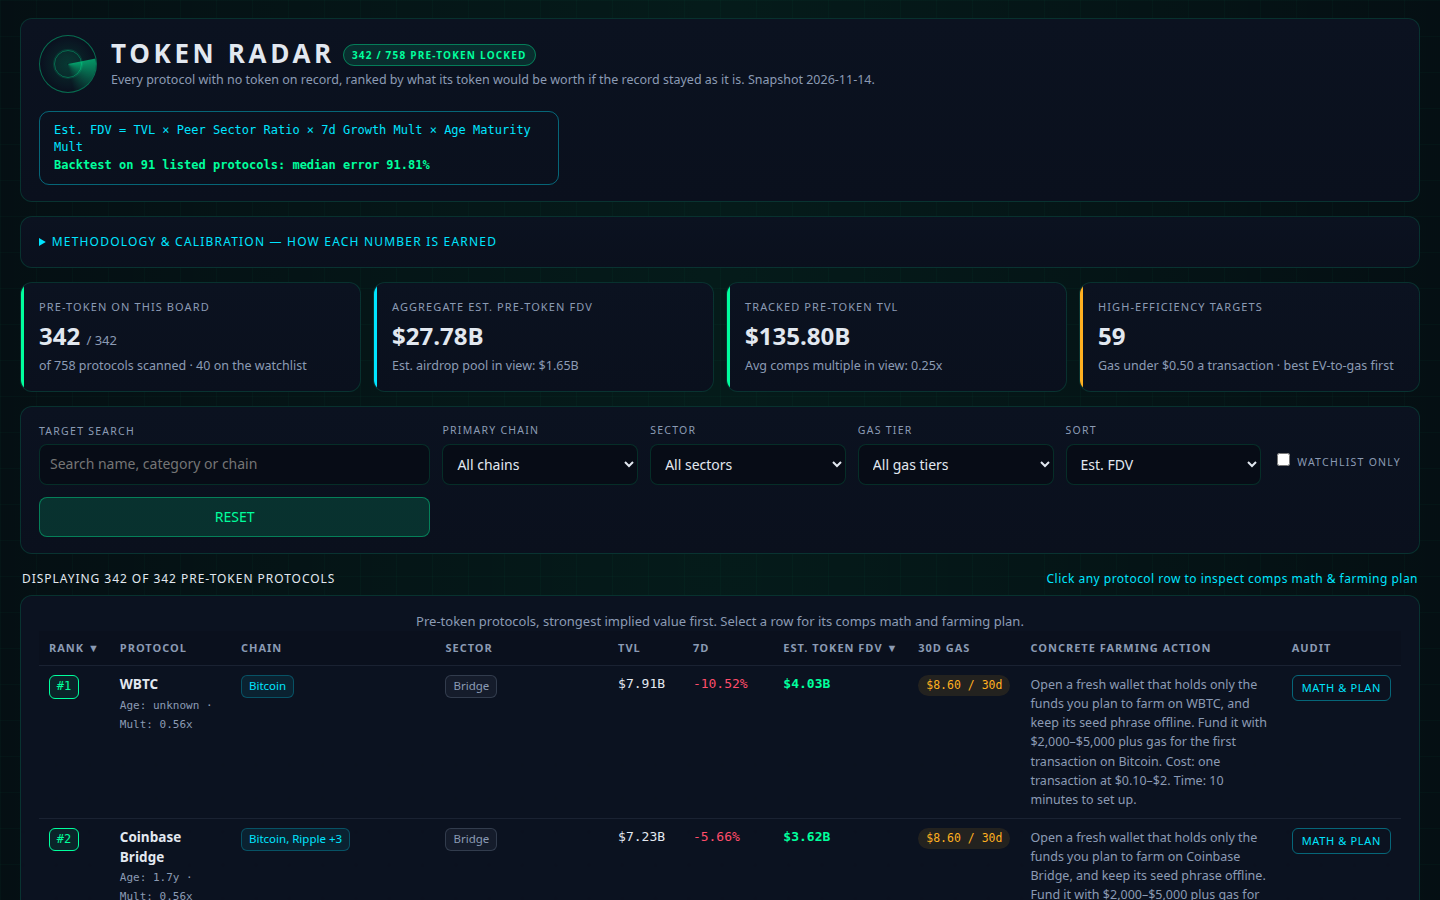
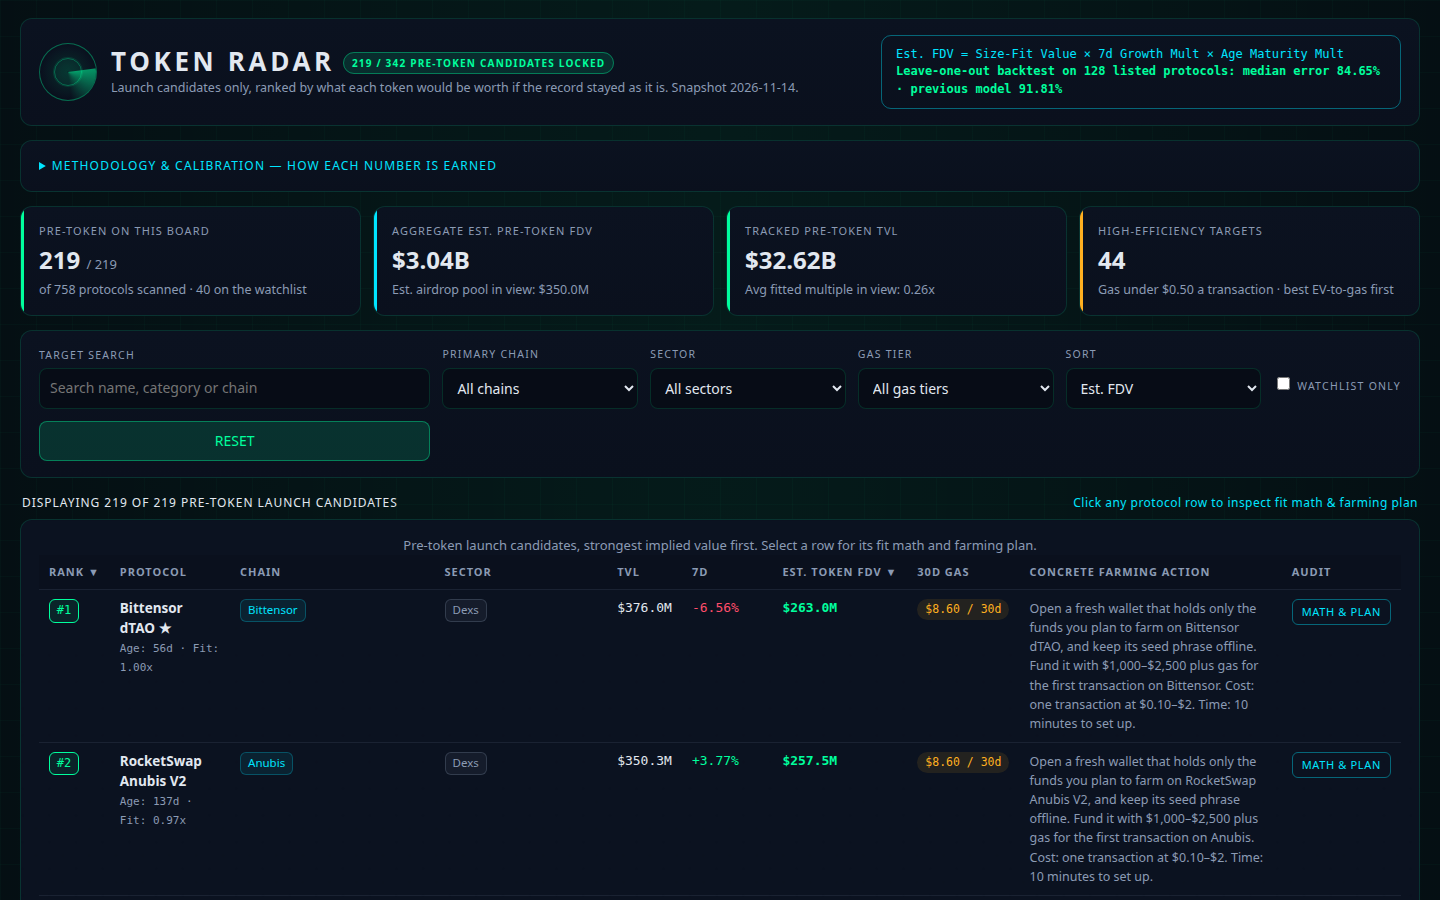
Radar v2 dashboard: universe rule, size-fit math and calibration in the page
Methodology panel now states the launch-candidate universe rule, the
fitted line (log mcap = a + b log TVL, Huber-robust), the n/(n+6)
category blend, and the leave-one-out backtest next to the previous
model's 91.81%. Detail view shows the fitted multiple, whether the
category or global fit dominated, comp count and fit weight. Screenshots
regenerated from the 219-row board (Playwright, 1440x900).

diff --git a/dashboard/app.js b/dashboard/app.js
@@ -123,24 +123,27 @@
       el('div', { class: 'brand' },
         el('div', { class: 'scope' }, el('span', { class: 'blip' })),
         el('div', null,
-          el('h1', null, 'TOKEN RADAR', el('span', { class: 'live', text: DATA.board_size + ' / ' + DATA.total_protocols + ' PRE-TOKEN LOCKED' })),
-          el('p', { class: 'sub', text: 'Every protocol with no token on record, ranked by what its token would be worth if the record stayed as it is. Snapshot ' + DATA.as_of + '.' })
+          el('h1', null, 'TOKEN RADAR', el('span', { class: 'live', text: DATA.board_size + ' / ' + DATA.pre_token_size + ' PRE-TOKEN CANDIDATES LOCKED' })),
+          el('p', { class: 'sub', text: 'Launch candidates only, ranked by what each token would be worth if the record stayed as it is. Snapshot ' + DATA.as_of + '.' })
         )
       ),
       el('div', { class: 'formula-pill' },
-        'Est. FDV = TVL \u00D7 Peer Sector Ratio \u00D7 7d Growth Mult \u00D7 Age Maturity Mult',
+        'Est. FDV = Size-Fit Value \u00D7 7d Growth Mult \u00D7 Age Maturity Mult',
         el('br'),
-        el('b', { text: 'Backtest on ' + DATA.backtest.tested + ' listed protocols: median error ' + DATA.backtest.mdape_pct.toFixed(2) + '%' })
+        el('b', { text: 'Leave-one-out backtest on ' + DATA.backtest.tested + ' listed protocols: median error ' + DATA.backtest.mdape_pct.toFixed(2) + '% \u00B7 previous model ' + DATA.backtest.previous_mdape_pct.toFixed(2) + '%' })
       )
     );
   }
 
   function methodPanel() {
     var c = DATA.comps;
+    var u = DATA.universe;
+    var f = DATA.fit;
     var cells = [
-      ['Comps pool', c.pool_size + ' live-token protocols with a recorded market cap, across ' + c.categories_with_comps + ' categories. Global median multiple ' + c.global_median.toFixed(4) + 'x.'],
-      ['Trimmed median', 'A category with 8 or more comps drops the top and bottom 10% of ratios before the median, so one outsized listing cannot drag the sector.'],
-      ['Backtest', 'The same multiples predict ' + DATA.backtest.tested + ' listed protocols\u2019 market caps from TVL, each protocol excluded from its own peers. Median error ' + DATA.backtest.mdape_pct.toFixed(2) + '%.'],
+      ['Universe', 'Launch candidates only: ' + DATA.board_size + ' of ' + DATA.pre_token_size + ' pre-token protocols. ' + u.excluded_categories.join(', ') + ' are out: venues and asset movers whose tokens already exist, or claims on existing assets. Of the rest, a protocol qualifies when its category holds at least ' + u.min_category_comps + ' live comps, when it sits on the watchlist, or when its TVL is at least ' + fmtUsd(u.min_tvl_usd) + '. All ' + DATA.watchlist_size + ' watchlist protocols are on the board.'],
+      ['Size fit', 'log(market cap) = ' + f.global_intercept.toFixed(4) + ' + ' + f.global_slope.toFixed(4) + ' \u00D7 log(TVL), fitted on ' + c.pool_size + ' live-token protocols across ' + c.categories_with_comps + ' categories with robust Huber weights, so one outsized listing cannot bend the line. A slope under 1 means value grows slower than TVL.'],
+      ['Category blend', 'A category with at least ' + DATA.config.category_line_min_comps + ' comps gets its own fitted line, blended with the global line at weight n/(n+' + DATA.config.blend_shrink_k + ') on the category. Below that, the global line stands plus the category\u2019s median residual, shrunk by the same weight. ' + f.line_categories + ' categories carry their own line; ' + f.offset_categories + ' ride the global line with an offset.'],
+      ['Backtest', 'Leave-one-out on all ' + DATA.backtest.tested + ' listed protocols: each market cap is predicted from a fit that excludes it, growth and maturity left out. Median error ' + DATA.backtest.mdape_pct.toFixed(2) + '%, median signed error ' + fmtPct(DATA.backtest.median_signed_pct) + '. The previous model, category median multiples, posted a median error of ' + DATA.backtest.previous_mdape_pct.toFixed(2) + '%.'],
       ['Growth', '1 + clamp(7-day TVL change, \u221250%, +100%) / 100 \u00D7 ' + DATA.config.growth_weight + '. A missing 7-day change counts as no growth (multiplier 1).'],
       ['Maturity', '0.70 + 0.50 \u00D7 min(age in days, 1460) / 1460. A protocol with no listing date uses 0.95: no bonus, no penalty beyond it.'],
       ['Own claims', 'Implied values, airdrop pools and per-wallet figures are this board\u2019s own claims, never prices or promises. Airdrop pool: 15% of implied value for Dexs / Lending / Yield, 5% for CEX / Bridge, 10% otherwise. Per-wallet divides the pool by a rough active-wallet count by TVL tier (15k\u2013250k).']
@@ -157,12 +160,12 @@
     var totalFdv = list.reduce(function (a, r) { return a + r.implied_value_usd; }, 0);
     var totalPool = list.reduce(function (a, r) { return a + r.airdrop.pool_usd; }, 0);
     var totalTvl = list.reduce(function (a, r) { return a + r.tvl_usd; }, 0);
-    var avgMult = list.length ? list.reduce(function (a, r) { return a + r.model.category_multiple; }, 0) / list.length : 0;
+    var avgMult = list.length ? list.reduce(function (a, r) { return a + r.model.fitted_multiple; }, 0) / list.length : 0;
     var cheap = list.filter(function (r) { return r.gas.cost_per_tx_usd < 0.5; }).length;
     return el('section', { class: 'kpis' },
       el('div', { class: 'panel kpi' }, el('div', { class: 'lab', text: 'Pre-token on this board' }), el('div', { class: 'val', html: esc(String(list.length)) + ' <small>/ ' + DATA.board_size + '</small>' }), el('div', { class: 'sub', text: 'of ' + DATA.total_protocols + ' protocols scanned \u00B7 ' + DATA.watchlist_size + ' on the watchlist' })),
       el('div', { class: 'panel kpi cyn' }, el('div', { class: 'lab', text: 'Aggregate est. pre-token FDV' }), el('div', { class: 'val', text: fmtUsd(totalFdv) }), el('div', { class: 'sub', text: 'Est. airdrop pool in view: ' + fmtUsd(totalPool) })),
-      el('div', { class: 'panel kpi' }, el('div', { class: 'lab', text: 'Tracked pre-token TVL' }), el('div', { class: 'val', text: fmtUsd(totalTvl) }), el('div', { class: 'sub', text: 'Avg comps multiple in view: ' + avgMult.toFixed(2) + 'x' })),
+      el('div', { class: 'panel kpi' }, el('div', { class: 'lab', text: 'Tracked pre-token TVL' }), el('div', { class: 'val', text: fmtUsd(totalTvl) }), el('div', { class: 'sub', text: 'Avg fitted multiple in view: ' + avgMult.toFixed(2) + 'x' })),
       el('div', { class: 'panel kpi amb' }, el('div', { class: 'lab', text: 'High-efficiency targets' }), el('div', { class: 'val', text: String(cheap) }), el('div', { class: 'sub', text: 'Gas under $0.50 a transaction \u00B7 best EV-to-gas first' }))
     );
   }
@@ -252,7 +255,7 @@
         el('td', null, el('span', { class: 'rank-badge' + (r.rank <= 25 ? ' top' : ''), text: '#' + r.rank })),
         el('td', null, el('div', { class: 'name' },
           el('b', { text: r.name + (r.watchlist ? ' \u2605' : '') }),
-          el('span', { class: 'sub', text: 'Age: ' + fmtAge(r.age_days) + ' \u00B7 Mult: ' + r.model.category_multiple.toFixed(2) + 'x' })
+          el('span', { class: 'sub', text: 'Age: ' + fmtAge(r.age_days) + ' \u00B7 Fit: ' + r.model.fitted_multiple.toFixed(2) + 'x' })
         )),
         el('td', null, el('span', { class: 'tag chain', text: chainsShown || 'n/a' })),
         el('td', null, el('span', { class: 'tag sector', text: r.category || 'Other' })),
@@ -268,7 +271,7 @@
     return el('div', { class: 'panel' },
       el('div', { class: 'table-wrap' },
         el('table', { class: 'board-table' },
-          el('caption', { class: 'muted', text: 'Pre-token protocols, strongest implied value first. Select a row for its comps math and farming plan.' }),
+          el('caption', { class: 'muted', text: 'Pre-token launch candidates, strongest implied value first. Select a row for its fit math and farming plan.' }),
           el('thead', null, el('tr', null,
             sortHeader('implied', 'Rank'),
             sortHeader('name', 'Protocol'),
@@ -300,7 +303,7 @@
     });
     return el('section', { class: 'panel live-table' },
       el('h3', { class: 'mono', text: 'COMPS EVIDENCE \u2014 TOP 24 LIVE-TOKEN PROTOCOLS BY MARKET CAP' }),
-      el('p', { class: 'sub', text: 'These protocols already trade. Their market caps over TVL are the ratios the board\u2019s sector multiples are medians of \u2014 the market\u2019s own values, set apart from the pre-token ranking.' }),
+      el('p', { class: 'sub', text: 'These protocols already trade. The size fit is fitted on their market caps and TVLs \u2014 the market\u2019s own values, set apart from the pre-token ranking.' }),
       el('div', { class: 'table-wrap' },
         el('table', null,
           el('thead', null, el('tr', null,
@@ -332,7 +335,7 @@
     var formula = el('div', { class: 'formula-bar' },
       el('div', { class: 'step' }, el('span', { class: 'lab', text: 'Current TVL' }), el('b', { text: fmtUsd(row.tvl_usd) })),
       el('span', { class: 'op', text: '\u00D7' }),
-      el('div', { class: 'step' }, el('span', { class: 'lab', text: 'Sector FDV / TVL' }), el('b', { text: m.category_multiple.toFixed(4) + 'x' }), el('span', { class: 'lab', text: m.comps_fallback ? 'global median (fewer than 3 sector comps)' : m.comp_count + ' sector comps' })),
+      el('div', { class: 'step' }, el('span', { class: 'lab', text: 'Size-fit FDV / TVL' }), el('b', { text: m.fitted_multiple.toFixed(4) + 'x' }), el('span', { class: 'lab', text: m.fit_source === 'category' ? 'category line \u00B7 ' + m.comp_count + ' comps \u00B7 weight ' + m.fit_weight.toFixed(2) : 'global line \u00B7 ' + m.comp_count + ' category comps' })),
       el('span', { class: 'op', text: '\u00D7' }),
       el('div', { class: 'step' }, el('span', { class: 'lab', text: '7d Growth Mult' }), el('b', { text: m.growth_multiplier.toFixed(4) + 'x' })),
       el('span', { class: 'op', text: '\u00D7' }),
@@ -343,7 +346,7 @@
     var peers = el('div', { class: 'peers' }, m.peers.map(function (p) {
       return el('span', { class: 'peer' }, document.createTextNode(p.name + ' '), el('b', { text: p.ratio.toFixed(4) + 'x' }));
     }));
-    if (m.floor_estimate) peers.appendChild(el('span', { class: 'peer', text: 'Floor estimate: no positive TVL on record, priced at the sector median implied value' }));
+    if (m.floor_estimate) peers.appendChild(el('span', { class: 'peer', text: 'Floor estimate: no positive TVL on record, priced from the global fit at the category median TVL' }));
     var steps = el('ol', { class: 'steps' }, row.farm_steps.map(function (s, i) {
       return el('li', null, el('span', { class: 'step-no', text: 'STEP 0' + (i + 1) + ':' }), document.createTextNode(s));
     }));
@@ -357,12 +360,12 @@
         el('button', { class: 'close', type: 'button', 'aria-label': 'Close details', text: 'Close', onclick: function () { dialog.close(); } })
       ),
       el('section', { class: 'sec' },
-        el('h3', null, el('span', { text: '01 // ' }), document.createTextNode('Comps valuation breakdown')),
+        el('h3', null, el('span', { text: '01 // ' }), document.createTextNode('Size-fit valuation breakdown')),
         el('span', { class: 'eff-badge', text: 'Est. airdrop pool (' + Math.round(row.airdrop.share_pct * 100) + '%): ' + fmtUsd(row.airdrop.pool_usd) }),
         formula,
-        el('p', { class: 'sub', text: 'Listed peer comps used for the benchmark:' }),
+        el('p', { class: 'sub', text: 'Listed peer comps in this category, the fit\u2019s own evidence:' }),
         peers,
-        el('p', { class: 'note', text: 'Base ' + fmtNum(m.base_usd) + ' = TVL \u00D7 ' + m.category_multiple.toFixed(4) + 'x. Per-wallet figure: ' + fmtUsd(row.airdrop.per_wallet_usd) + ' (pool \u00F7 ' + row.airdrop.wallets_assumed.toLocaleString('en-US') + ' assumed active wallets for this TVL tier \u2014 the board\u2019s own assumption, never a promise).' })
+        el('p', { class: 'note', text: 'Base ' + fmtNum(m.base_usd) + ' = the fitted value at this TVL, TVL \u00D7 ' + m.fitted_multiple.toFixed(4) + 'x. Per-wallet figure: ' + fmtUsd(row.airdrop.per_wallet_usd) + ' (pool \u00F7 ' + row.airdrop.wallets_assumed.toLocaleString('en-US') + ' assumed active wallets for this TVL tier \u2014 the board\u2019s own assumption, never a promise).' })
       ),
       el('section', { class: 'sec' },
         el('h3', null, el('span', { text: '02 // ' }), document.createTextNode('Concrete farming plan & chain gas telemetry')),
@@ -386,8 +389,8 @@
     kpiSlot.textContent = '';
     kpiSlot.appendChild(kpiGrid(list));
     metaSlot.textContent = '';
-    metaSlot.appendChild(el('span', { text: 'Displaying ' + list.length + ' of ' + DATA.board_size + ' pre-token protocols' }));
-    metaSlot.appendChild(el('span', { class: 'hint', text: 'Click any protocol row to inspect comps math & farming plan' }));
+    metaSlot.appendChild(el('span', { text: 'Displaying ' + list.length + ' of ' + DATA.board_size + ' pre-token launch candidates' }));
+    metaSlot.appendChild(el('span', { class: 'hint', text: 'Click any protocol row to inspect fit math & farming plan' }));
     tableSlot.textContent = '';
     tableSlot.appendChild(boardTable(list));
   }

diff --git a/dashboard/index.html b/dashboard/index.html
@@ -3,7 +3,7 @@
 <head>
 <meta charset="utf-8">
 <meta name="viewport" content="width=device-width, initial-scale=1">
-<title>Token Radar: 342 pre-token protocols ranked by implied value</title>
+<title>Token Radar: 219 pre-token launch candidates ranked by implied value</title>
 <link rel="stylesheet" href="app.css">
 </head>
 <body>

diff --git a/README.md b/README.md
@@ -1,24 +1,33 @@
-# Token Radar — comps-based token launch radar
+# Token Radar — size-fitted token launch radar
 
-A ranked board of all 342 pre-token protocols in the sealed DefiLlama
-snapshot, each with an implied token value and a concrete 5-step farm plan,
-plus a filterable dashboard with a per-protocol detail view.
+A ranked board of 219 pre-token launch candidates drawn from the sealed
+DefiLlama snapshot, each with an implied token value from a valuation
+model fitted to protocol size and a concrete 5-step farm plan, plus a
+filterable dashboard with a per-protocol detail view.
 
 ## The model (5 lines)
 
-1. **Comps:** each protocol is priced off the live market — TVL × the
-   median market-cap/TVL multiple of the live-token protocols in its own
-   category (trimmed median at ≥8 comps; global median when a category
-   holds fewer than 3 comps). The pool actually used holds 128 live
-   protocols across 34 categories.
-2. **Growth:** × (1 + clamp(7-day TVL change, −50%, +100%) × 0.35).
-3. **Maturity:** × (0.70 + 0.50 × min(age in days, 1460) / 1460); age
+1. **Universe:** launch candidates only. CEX, Bridge and Canonical
+   Bridge are excluded — venues and asset movers whose tokens already
+   exist, or claims on existing assets. Of the remaining pre-token
+   protocols, one boards when its category holds at least 3 live comps,
+   when it sits on the snapshot watchlist, or when its TVL is at least
+   $20M. All 40 watchlist protocols are on the board.
+2. **Size fit:** log(market cap) = a + b × log(TVL), fitted on the 128
+   live-token protocols with robust Huber weights, so one outsized
+   listing cannot bend the line. A category with at least 8 comps blends
+   in its own fitted line at weight n/(n+6); below that, the global line
+   stands plus the category's median residual, shrunk by the same
+   weight. The fitted slope is under 1: value grows slower than TVL.
+3. **Growth:** × (1 + clamp(7-day TVL change, −50%, +100%) × 0.35).
+4. **Maturity:** × (0.70 + 0.50 × min(age in days, 1460) / 1460); age
    unknown → 0.95.
-4. **Backtest:** the same multiples predict listed protocols' market caps
-   from TVL (excluding the protocol itself); the median error is shown in
-   the dashboard's Methodology panel.
-5. **Farm plans:** 5 steps per row from category playbook × TVL tier ×
-   primary-chain gas tier, with a 30-day gas total and an EV-to-gas rating.
+5. **Backtest:** leave-one-out on all 128 listed protocols — each
+   market cap predicted from a fit that excludes it. Median error
+   84.65%, median signed error +0.11%. The previous model (category
+   median multiples) posted 91.81%. Farm plans stay 5 steps per row
+   from category playbook × TVL tier × primary-chain gas tier, with a
+   30-day gas total and an EV-to-gas rating.
 
 Implied values are this board's own claims, never prices or promises.
 
@@ -35,7 +44,7 @@ network). Output: `board.json`, `data.js`, `dashboard/`, `screenshots/`,
 ## Layout
 
 - `main.ts` — entrypoint: reads the snapshot, builds the board, writes outputs.
-- `lib/model.ts` — the comps model, backtest, gas tiers and farm plans.
+- `lib/model.ts` — the size-fit model, backtest, gas tiers and farm plans.
 - `vendor/makefun-board.ts` — make.fun's dossier library (verbatim).
 - `dashboard/` — the static page (index.html, app.css, app.js; no network).
 - `screenshots/` — three renders of the page with the real board data.
